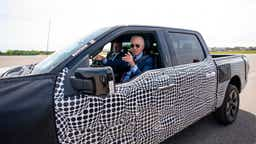
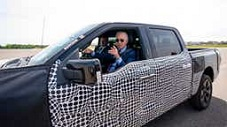
class imgart

diff --git a/index.html b/index.html
@@ -192,13 +192,13 @@
 </nav>
 <br><br>
 
-<div style="background-color: white">
+<div style="background-color: white; padding-top: 30px">
 <!-- Prima colonna  -->
-    <div class="container" style="background-color: white">
+    <div class="container" style="background-color: white;">
         <div class="row">
-            <div class="col-lg-5" style="padding-left: 60px; margin-right: 15px">
+            <div class="col-lg-5" id="colo1">
                 <div class="row">
-                <img src="img1.jpg" id=img1 width="550px">
+                <img src="img1.jpg" class="imgart">
                 </div>
                 <div class="row">
                     <div class="col-lg-11"  id="a1scritta">
@@ -327,42 +327,42 @@
             <div class="row">
                 <div class="col-6"><h6 style="text-align: left; font-size: large"><b>What happened this week? Take our news quiz.</b></h6>
                     <h6 style="text-align: left; color: grey"> <b>News</b></h6></div>
-                <div class="col-6"><img src="img3a.jpg" width="227px"></div>
+                <div class="col-6 "><img src="img3a.jpg" class="imgart"></div>
             </div>
 
             <br>
             <div class="row">
                 <div class="col-6"><h6 style="text-align: left; font-size: large"><b>Did Republicans hand Democrats major win with Tennessee Three vote?</b></h6>
                     <h6 style="text-align: left; color: grey"> <b>Politics</b> | 2 hours ago</h6></div>
-                <div class="col-6"><img src="img5.jpg" width="227px"></div>
+                <div class="col-6"><img src="img3b.jpg" class="imgart"></div>
             </div>
 
             <br>
             <div class="row">
                 <div class="col-6"><h6 style="text-align: left; font-size: large"><b>Brennan, Graham blast Greene over defense of Pentagon leak suspect</b></h6>
                     <h6 style="text-align: left; color: grey"> <b>Politics</b> | 7 hours ago</h6></div>
-                <div class="col-6"><img src="img3c.jpg" width="227px"></div>
+                <div class="col-6"><img src="img3c.jpg" class="imgart"></div>
             </div>
 
             <br>
             <div class="row">
                 <div class="col-6"><h6 style="text-align: left; font-size: large"><b>What is the healthiest bread? These options can be part of a healthy diet.</b></h6>
                     <h6 style="text-align: left; color: grey"> <b>Life</b> | 3 hours ago</h6></div>
-                <div class="col-6"><img src="img3d.jpg" width="227px"></div>
+                <div class="col-6"><img src="img3d.jpg" class="imgart"></div>
             </div>
 
             <br>
             <div class="row">
                 <div class="col-6"><h6 style="text-align: left; font-size: large"><b>South Korea fires warning shots after North Korean boat crosses border</b></h6>
                     <h6 style="text-align: left; color: grey"> <b>World</b> | 3 hours ago</h6></div>
-                <div class="col-6"><img src="img3e.jpg" width="227px"></div>
+                <div class="col-6"><img src="img3e.jpg" class="imgart"></div>
             </div>
 
             <br>
             <div class="row">
                 <div class="col-6"><h6 style="text-align: left; font-size: large"><b>Biden's push to sell electric vehicles: Can it be done?</b></h6>
                     <h6 style="text-align: left; color: grey"> <b>Cars</b> | 7 hours ago</h6></div>
-                <div class="col-6"><img src="img3f.jpg" width="227px"></div>
+                <div class="col-6"><img src="img3f.jpg" class="imgart"></div>
             </div>
             <br>
 
@@ -401,7 +401,7 @@
                 <!--Titolo principale-->
                 <div style="background-color: white">
                 <div class="row">
-                    <div class="col-lg-6"><img src="img4aa.jpg" align="left" class="imgc" width="570px"></div>
+                    <div class="col-lg-6"><img src="img4aa.jpg" align="left" class="imgc imgart" width="570px"></div>
 
                     <div class="col-lg-5">
                         <div class="wrtc">
@@ -458,7 +458,7 @@
                 <!--Titolo principale-->
                 <div style="background-color: white">
                     <div class="row">
-                        <div class="col-lg-6"><img src="img4e.jpg" class="imgc" align="left" width="570px" style=""></div>
+                        <div class="col-lg-6"><img src="img4e.jpg" class="imgart" align="left" width="570px" style=""></div>
 
                         <div class="col-lg-5">
                             <div class="wrtc">

diff --git a/stylesheet.css b/stylesheet.css
@@ -59,6 +59,10 @@ a:link {
         padding-left: 65px
     }
 
+    #colo1{
+        padding-left: 60px; margin-right: 15px
+    }
+
     .col-lg-7{
         margin-left: 25px;
         padding-left: 65px;
@@ -73,14 +77,7 @@ a:link {
 /*Mobile*/
 @media screen and (max-width: 992px) {
 
-    #img1{
-        width: 1200px;
-        margin-top: 20px;
-        margin-left: -25px;
-        margin-bottom: 20px;
-        align-self: center;
 
-    }
 
     #img2{
         width: 350px;
@@ -95,7 +92,6 @@ a:link {
         max-width: 300px;
         background-color: white;
         margin-top: -75px;
-        margin-left: -25px;
         margin-bottom: 30px;
         padding-top: 10px;
         padding-bottom: 20px;
@@ -148,11 +144,6 @@ a:link {
     #c1{
         max-width: 400px;
     }
-    .imgc{
-        width: 400px;
-        margin-top: 20px;
-        margin-left: 0px;
-    }
     .wrtc{
         margin-top: -170px;
         margin-left: 170px;
@@ -162,6 +153,18 @@ a:link {
         padding-bottom: 10px;
         background-color: white;
     }
+
+    .imgart{
+    width: 100%;
+    }
+    
+
+
 }
+
+@media screen and (max-width: 500px){
+}
+
+
 
 
